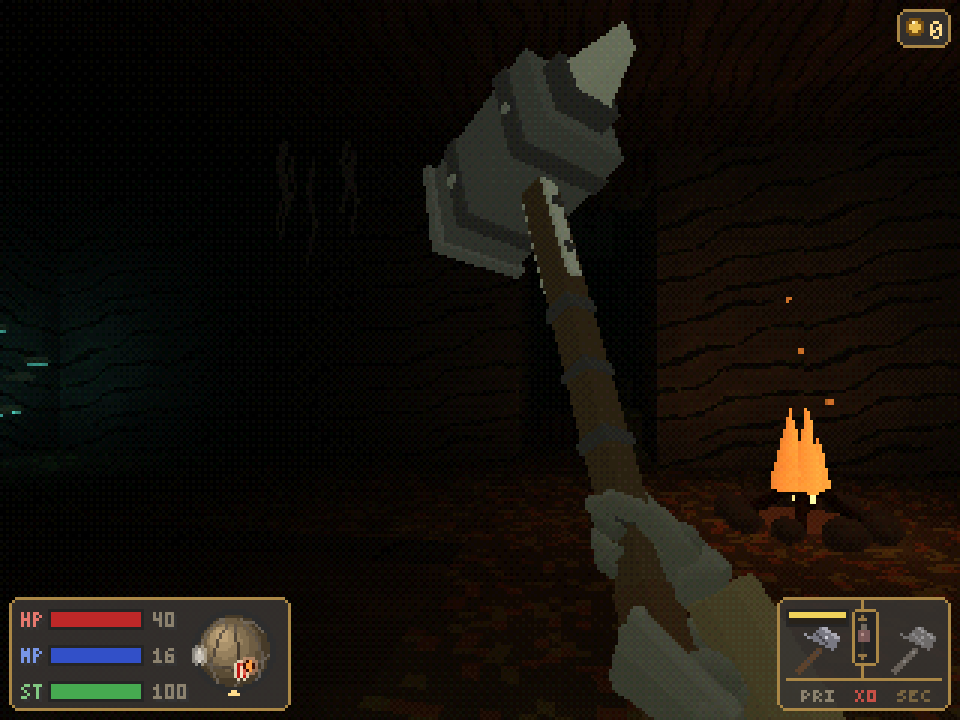
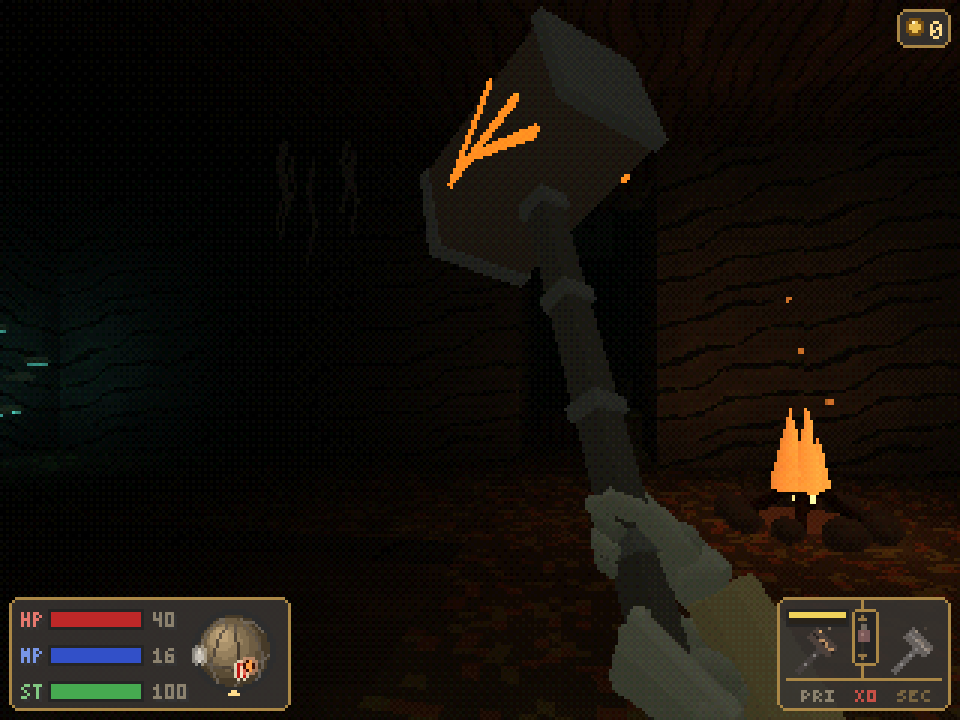
Retake every README screenshot with new gear
Each shot carries a different weapon than before, Mend and Lumen show in a
few, and the Belongings and sword-and-shield alt texts follow the new gear.

diff --git a/README.md b/README.md
@@ -67,7 +67,7 @@ FromSoftware, Inc.
   </tr>
   <tr>
     <td><img src="docs/screenshots/warden.png" alt="The Ashen Warden boss in its hall"></td>
-    <td><img src="docs/screenshots/inventory.png" alt="The Belongings screen: the Moonless Tachi in the Primary slot, a kite shield in Secondary, a lamellar vest and leather gloves, the Equipped panel and the stats"></td>
+    <td><img src="docs/screenshots/inventory.png" alt="The Belongings screen: Stormbrand in the Primary slot, a round shield in Secondary, a lamellar vest and leather gloves, the Equipped panel and the stats"></td>
   </tr>
   <tr>
     <td align="center"><sub>The Ashen Warden</sub></td>
@@ -106,7 +106,7 @@ FromSoftware, Inc.
     <td align="center"><sub>A bonfire in the Root Caverns, under the bog</sub></td>
   </tr>
   <tr>
-    <td><img src="docs/screenshots/combat.png" alt="A bastard sword in iron gauntlets, a tower shield on the other arm, facing a bone walker"></td>
+    <td><img src="docs/screenshots/combat.png" alt="The Ashblade in iron gauntlets, a kite shield on the other arm, facing a bone walker"></td>
     <td><img src="docs/screenshots/corvane.png" alt="Corvane's shop of curved blades"></td>
   </tr>
   <tr>
@@ -463,46 +463,46 @@ uv run ashen-vault --map sunken_keep --at 15,21,180 --smoke 100 --script "wait:1
 
 The README screenshots were taken this way, each with `ASHEN_VAULT_SAVE` pointing at a fresh throwaway
 file. The title is `uv run ashen-vault --smoke 60 --shot title.png` and the village
-`uv run ashen-vault --map harrowmere --at=22,30,-60 --level 10 --equip primary=claymore --smoke 40 --shot village.png`; Odrin is
-`uv run ashen-vault --map harrowmere --at=28,25,-90 --level 10 --equip primary=mace,secondary=spell:mend --smoke 40 --script "wait:0.2 interact" --shot dialogue.png`,
+`uv run ashen-vault --map harrowmere --at=22,30,-60 --level 10 --equip primary=zweihander --smoke 40 --shot village.png`; Odrin is
+`uv run ashen-vault --map harrowmere --at=28,25,-90 --level 10 --equip primary=katana,secondary=spell:mend --smoke 40 --script "wait:0.2 interact" --shot dialogue.png`,
 Belongings is
-`uv run ashen-vault --map harrowmere --at=20,44,-90 --level 10 --equip primary=moonless_tachi,secondary=kite_shield,body=lamellar_vest,hands=leather_gloves --smoke 40 --script "wait:0.2 menu" --shot inventory.png`,
+`uv run ashen-vault --map harrowmere --at=20,44,-90 --level 10 --equip primary=stormbrand,secondary=round_shield,body=lamellar_vest,hands=leather_gloves --smoke 40 --script "wait:0.2 menu" --shot inventory.png`,
 Corvane's shop is
-`uv run ashen-vault --map harrowmere --at=6,26,180 --level 10 --equip primary=flamberge --smoke 220 --script "forward:2 interact wait:0.3 confirm wait:0.3 confirm wait:0.3 confirm wait:0.3 confirm" --shot corvane.png`,
-the cathedral is `uv run ashen-vault --map harrowmere --at=18,6,180 --level 10 --equip primary=moonless_tachi,secondary=spell:thunder --smoke 40 --shot cathedral.png`,
-the cemetery is `uv run ashen-vault --map ashen_cemetery --level 10 --equip primary=hatchet,secondary=spell:lumen --smoke 40 --shot cemetery.png`,
-the Mourner is `uv run ashen-vault --map ashen_cemetery --at=11,22,-90 --level 10 --equip primary=oak_cudgel,secondary=spell:venom --smoke 40 --shot mourner.png`,
+`uv run ashen-vault --map harrowmere --at=6,26,180 --level 10 --equip primary=nodachi --smoke 220 --script "forward:2 interact wait:0.3 confirm wait:0.3 confirm wait:0.3 confirm wait:0.3 confirm" --shot corvane.png`,
+the cathedral is `uv run ashen-vault --map harrowmere --at=18,6,180 --level 10 --equip primary=ashblade,secondary=spell:lumen --smoke 40 --shot cathedral.png`,
+the cemetery is `uv run ashen-vault --map ashen_cemetery --level 10 --equip primary=bastard_sword,secondary=spell:mend --smoke 40 --shot cemetery.png`,
+the Mourner is `uv run ashen-vault --map ashen_cemetery --at=11,22,-90 --level 10 --equip primary=hatchet,secondary=spell:venom --smoke 40 --shot mourner.png`,
 the burning silk is
-`uv run ashen-vault --map ashen_cemetery --at=12,18,-135 --level 10 --equip primary=leather_whip,secondary=spell:flame --smoke 90 --script "wait:0.3 cast wait:0.9" --shot silk.png`,
+`uv run ashen-vault --map ashen_cemetery --at=12,18,-135 --level 10 --equip primary=mace,secondary=spell:flame --smoke 90 --script "wait:0.3 cast wait:0.9" --shot silk.png`,
 the Sexton is
-`uv run ashen-vault --map ashen_cemetery --at=10,11,-90 --level 10 --equip primary=bearded_axe,secondary=spell:ward --smoke 603 --script "wait:0.1 interact wait:2.5 forward:1.0" --shot sexton.png`
+`uv run ashen-vault --map ashen_cemetery --at=10,11,-90 --level 10 --equip primary=thornlash,secondary=spell:ward --smoke 603 --script "wait:0.1 interact wait:2.5 forward:1.0" --shot sexton.png`
 (its move is random, so take it again until its ash bursts round it),
-the forge is `uv run ashen-vault --map harrowmere --at=8,18,180 --level 10 --equip primary=bastard_sword,secondary=spell:ward --smoke 40 --shot forge.png`,
-the Warden is `uv run ashen-vault --map sunken_keep --at=15,7,-90 --level 10 --equip primary=zweihander --smoke 40 --shot warden.png`,
-the hollow's vine path is `uv run ashen-vault --map verdant_hollow --at=9,12,90 --level 10 --equip primary=thornlash,secondary=spell:veil --smoke 40 --shot verdant_hollow.png`,
-the Bark Husk is `uv run ashen-vault --map verdant_hollow --at=26,17,-90 --level 10 --equip primary=butcher_cleaver,secondary=spell:pyre --smoke 60 --shot bark_husk.png`,
-the log rack is `uv run ashen-vault --map verdant_hollow --at=51,6,180 --level 10 --equip primary=spiked_club,secondary=buckler --smoke 40 --shot log_rack.png`,
+the forge is `uv run ashen-vault --map harrowmere --at=8,18,180 --level 10 --equip primary=bearded_axe,secondary=spell:lumen --smoke 40 --shot forge.png`,
+the Warden is `uv run ashen-vault --map sunken_keep --at=15,7,-90 --level 10 --equip primary=claymore --smoke 40 --shot warden.png`,
+the hollow's vine path is `uv run ashen-vault --map verdant_hollow --at=9,12,90 --level 10 --equip primary=katana,secondary=spell:veil --smoke 40 --shot verdant_hollow.png`,
+the Bark Husk is `uv run ashen-vault --map verdant_hollow --at=26,17,-90 --level 10 --equip primary=moonless_tachi,secondary=spell:pyre --smoke 60 --shot bark_husk.png`,
+the log rack is `uv run ashen-vault --map verdant_hollow --at=51,6,180 --level 10 --equip primary=leather_whip,secondary=buckler --smoke 40 --shot log_rack.png`,
 the flame bolt shot is
-`uv run ashen-vault --map sunken_keep --at 15,22,0 --level 10 --equip primary=ashblade,secondary=spell:flame --smoke 40 --script "wait:0.3 cast" --shot flame_bolt.png`,
-the Loom Mother is `uv run ashen-vault --map verdant_hollow --at=15,7,-90 --level 10 --equip primary=nodachi --smoke 40 --shot loom_mother.png`,
+`uv run ashen-vault --map sunken_keep --at 15,22,0 --level 10 --equip primary=stormbrand,secondary=spell:flame --smoke 40 --script "wait:0.3 cast" --shot flame_bolt.png`,
+the Loom Mother is `uv run ashen-vault --map verdant_hollow --at=15,7,-90 --level 10 --equip primary=flamberge --smoke 40 --shot loom_mother.png`,
 the lift ride is
-`uv run ashen-vault --map sunken_keep --at 4,24,90 --level 10 --equip primary=slagbreaker --smoke 680 --script "forward:0.15 wait:5 forward:0.6 wait:7" --shot undercroft_lift.png`,
-the Butcher is `uv run ashen-vault --map sunken_keep --at=27,7,-90 --level 10 --equip primary=claymore --smoke 20 --shot gallery.png`,
-the jungle trail is `uv run ashen-vault --map harrowmere --at=56,34,-90 --level 10 --equip primary=hatchet,secondary=spell:motes --smoke 40 --shot jungle_trail.png`,
+`uv run ashen-vault --map sunken_keep --at 4,24,90 --level 10 --equip primary=great_iron_hammer --smoke 680 --script "forward:0.15 wait:5 forward:0.6 wait:7" --shot undercroft_lift.png`,
+the Butcher is `uv run ashen-vault --map sunken_keep --at=27,7,-90 --level 10 --equip primary=war_hammer --smoke 20 --shot gallery.png`,
+the jungle trail is `uv run ashen-vault --map harrowmere --at=56,34,-90 --level 10 --equip primary=spiked_club,secondary=spell:lumen --smoke 40 --shot jungle_trail.png`,
 Mossmouth is
-`uv run ashen-vault --map verdant_hollow --at=15,31,180 --script "wait:0.3 cast wait:3" --level 10 --equip primary=spiked_club,secondary=spell:pyre --smoke 120 --shot mossmouth.png`,
-the canopy is `uv run ashen-vault --map verdant_hollow --at=31,3,180 --script "look_down:0.12" --level 10 --equip primary=katana,secondary=spell:motes --smoke 40 --shot canopy_walk.png`,
-the Root Caverns are `uv run ashen-vault --map verdant_hollow --at=6,38,-100 --level 10 --equip primary=great_iron_hammer --smoke 25 --shot root_caverns.png`,
-the long bridge is `uv run ashen-vault --map cinderhold --at=29,52,-90 --script "look_up:0.15" --level 10 --equip primary=ashblade,secondary=spell:thunder --smoke 60 --shot cinderhold_bridge.png`,
-the postern ledge is `uv run ashen-vault --map cinderhold --at=28,30,180 --level 10 --equip primary=katana,secondary=round_shield --smoke 190 --shot postern_ledge.png`,
-the foundry is `uv run ashen-vault --map cinderhold --at=18,17,180 --level 10 --equip primary=war_hammer --smoke 40 --shot foundry.png`,
+`uv run ashen-vault --map verdant_hollow --at=15,31,180 --script "wait:0.3 cast wait:3" --level 10 --equip primary=hatchet,secondary=spell:pyre --smoke 120 --shot mossmouth.png`,
+the canopy is `uv run ashen-vault --map verdant_hollow --at=31,3,180 --script "look_down:0.12" --level 10 --equip primary=butcher_cleaver,secondary=spell:motes --smoke 40 --shot canopy_walk.png`,
+the Root Caverns are `uv run ashen-vault --map verdant_hollow --at=6,38,-100 --level 10 --equip primary=slagbreaker --smoke 25 --shot root_caverns.png`,
+the long bridge is `uv run ashen-vault --map cinderhold --at=29,52,-90 --script "look_up:0.15" --level 10 --equip primary=moonless_tachi,secondary=spell:thunder --smoke 60 --shot cinderhold_bridge.png`,
+the postern ledge is `uv run ashen-vault --map cinderhold --at=28,30,180 --level 10 --equip primary=bastard_sword,secondary=kite_shield --smoke 190 --shot postern_ledge.png`,
+the foundry is `uv run ashen-vault --map cinderhold --at=18,17,180 --level 10 --equip primary=zweihander --smoke 40 --shot foundry.png`,
 the gargoyles are
-`uv run ashen-vault --map cinder_keep --at=9,6,180 --level 10 --equip primary=stormbrand,secondary=spell:ward --smoke 200 --script "wait:1 attack wait:1" --shot gargoyles.png`,
-the keep's hall is `uv run ashen-vault --map cinder_keep --at=17,18,180 --level 10 --equip primary=flamberge --smoke 40 --shot keep_hall.png`,
+`uv run ashen-vault --map cinder_keep --at=9,6,180 --level 10 --equip primary=katana,secondary=spell:ward --smoke 200 --script "wait:1 attack wait:1" --shot gargoyles.png`,
+the keep's hall is `uv run ashen-vault --map cinder_keep --at=17,18,180 --level 10 --equip primary=nodachi --smoke 40 --shot keep_hall.png`,
 the scroll is
-`uv run ashen-vault --map cinderhold --at=4,15,-90 --level 10 --equip primary=thornlash,secondary=buckler --smoke 280 --script "interact wait:1.5 menu wait:0.2 tab_next wait:0.2 tab_next wait:0.2 tab_next wait:0.2 down wait:3" --shot thunder_scroll.png`,
+`uv run ashen-vault --map cinderhold --at=4,15,-90 --level 10 --equip primary=oak_cudgel,secondary=tower_shield --smoke 280 --script "interact wait:1.5 menu wait:0.2 tab_next wait:0.2 tab_next wait:0.2 tab_next wait:0.2 down wait:3" --shot thunder_scroll.png`,
 and the sword and shield shot is
-`uv run ashen-vault --map sunken_keep --at 15,22,0 --level 10 --equip primary=bastard_sword,secondary=tower_shield,body=blackened_plate,hands=iron_gauntlets --smoke 100 --shot combat.png`.
+`uv run ashen-vault --map sunken_keep --at 15,22,0 --level 10 --equip primary=ashblade,secondary=kite_shield,body=blackened_plate,hands=iron_gauntlets --smoke 100 --shot combat.png`.
 
 ## Contributing
 
